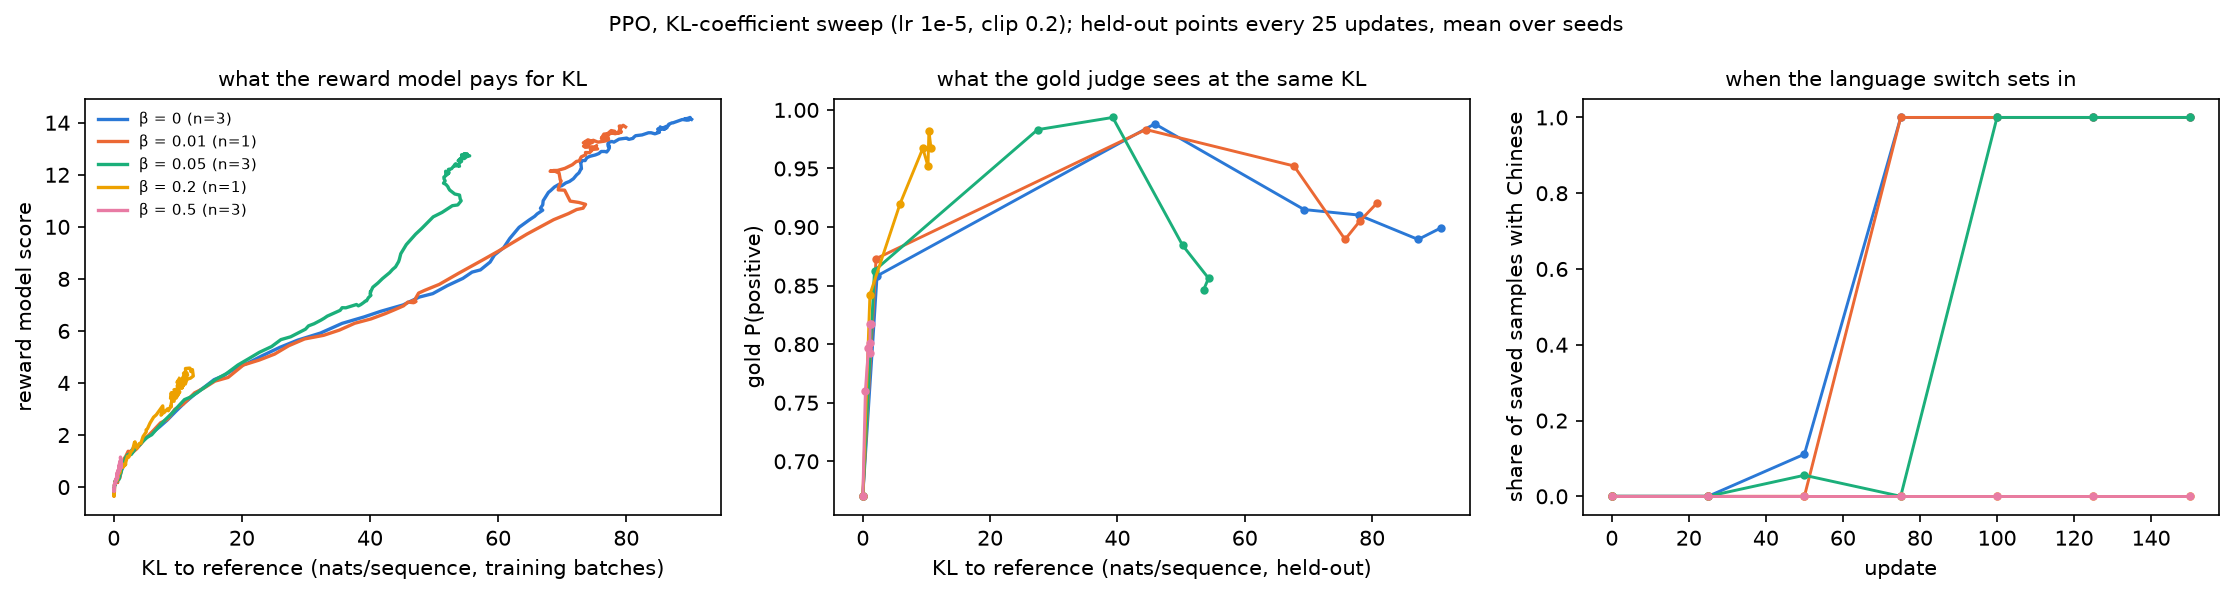
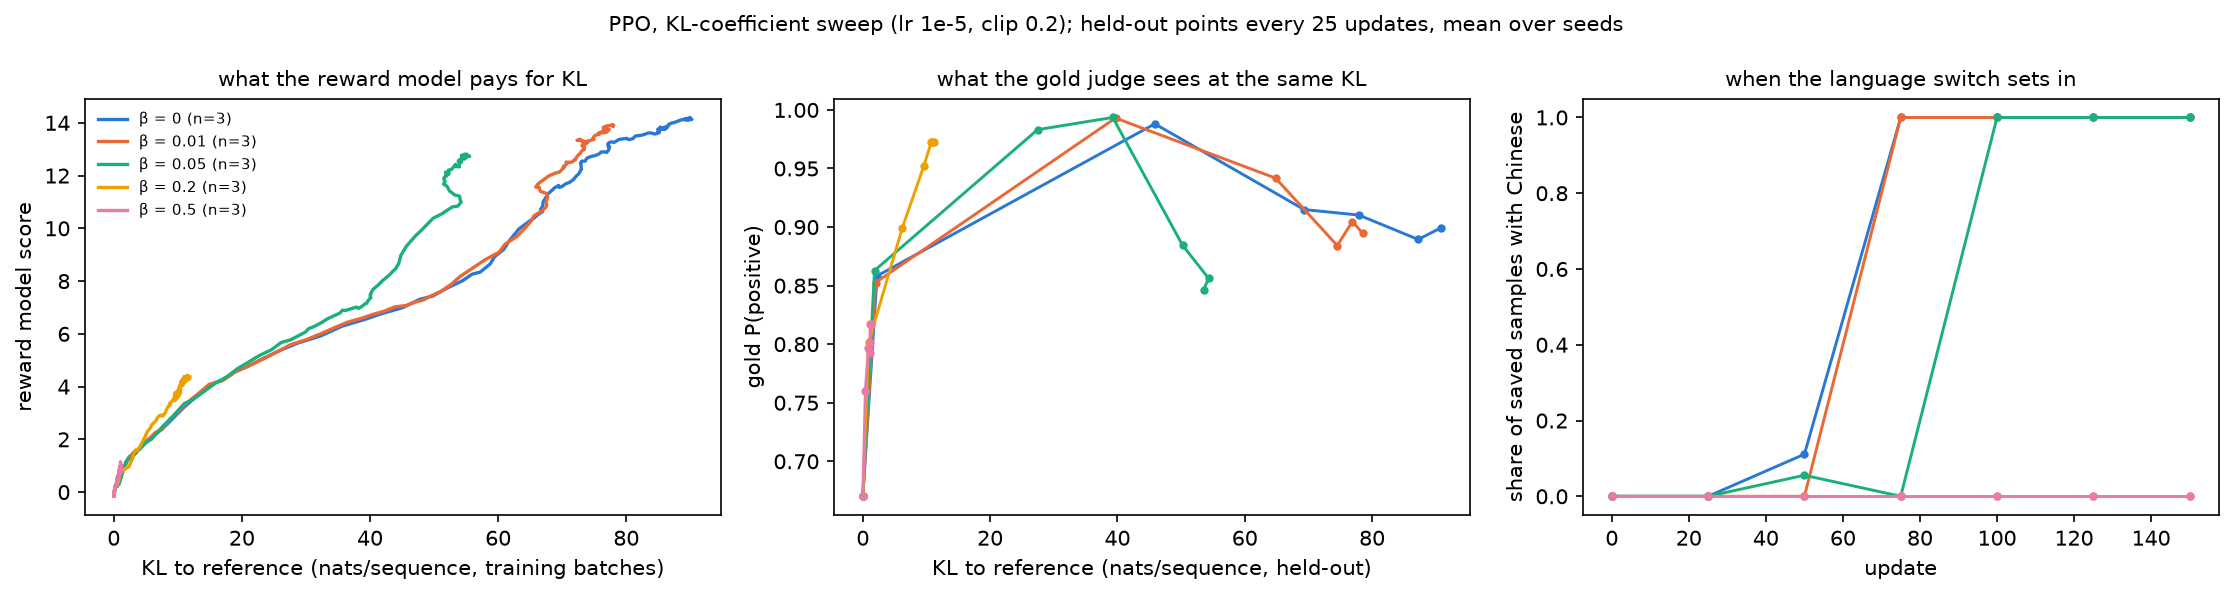
B1 writeup draft: REINFORCE and the PPO KL sweep (clip sweep at lr 1e-4 pending)
Claude-Session: https://claude.ai/code/session_014joiEcXEN2wrdBpd2vHDGr

diff --git a/docs/writeups/b1-ppo.md b/docs/writeups/b1-ppo.md
@@ -1,0 +1,238 @@
+# B1 — REINFORCE → PPO on a language model: task, goal, and how it was solved
+
+What phase B1 asks, why policy gradients on a language model need an anchor
+to the pretrained model, and what the runs showed. The lab notebook with the
+numbers is
+[`experiments/b1_ppo/README.md`](../../experiments/b1_ppo/README.md); every
+table and figure here is produced by `experiments/b1_ppo/report.py` from the
+run directories.
+
+> **At a glance**
+>
+> - **Both optimisers hack their reward model within 100 updates when nothing
+>   ties them to the pretrained model**, each in its own way. REINFORCE
+>   (5 seeds) collapses into a chant of "beautifully crafted, beautifully
+>   presented" (distinct-2 0.88 → 0.05, KL to the reference 100 nats per
+>   48-token completion). PPO (3 seeds) switches into **Chinese** mid-review:
+>   the reward model was trained only on English reviews, but its Qwen
+>   backbone reads Chinese and pays +14 to +16 for Chinese praise, against
+>   +3 to +5 for strong English praise.
+> - **A held-out judge catches only the hack that leaves its domain.** The
+>   gold sentiment model scores REINFORCE's chant P(positive) 0.96, so it
+>   cannot see that hack; it does see PPO's: gold peaks at ≈0.99 around 40
+>   nats of KL and falls to 0.85-0.90 as the samples turn Chinese, while the
+>   reward model keeps paying more.
+> - **The KL coefficient is the control; the clip range is not, at this
+>   learning rate.** β ≤ 0.05 switches language on every seed; **β = 0.2
+>   gives the best gold score (0.97 ± 0.01) at 11 nats of KL with fluent
+>   English** on all three seeds; β = 0.5 barely moves (KL 1.2, gold 0.82).
+>   At lr 1e-5 fewer than 0.5% of tokens are ever clipped, and clip ranges
+>   0.05-0.5 end in the same place.
+> - **The coefficient that works depends on the reward's scale.** β = 0.05
+>   holds REINFORCE to 15 nats against a sentiment classifier capped at
+>   log-odds 5.7, and fails against the reward model, whose logit has no cap.
+
+## Contents
+
+- [1. The task](#1-the-task)
+- [2. The goal](#2-the-goal)
+- [3. What was done](#3-what-was-done)
+- [4. REINFORCE without an anchor (item 1)](#4-reinforce-without-an-anchor-item-1)
+- [5. PPO: the KL coefficient (items 2-3)](#5-ppo-the-kl-coefficient-items-2-3)
+- [6. PPO: the clip range (item 2)](#6-ppo-the-clip-range-item-2)
+- [7. What this sets up](#7-what-this-sets-up)
+- [8. Deviations and what went wrong](#8-deviations-and-what-went-wrong)
+
+---
+
+## 1. The task
+
+[`ladder.md`](../ladder.md#b1) states three items:
+
+1. Reuse the A4 REINFORCE implementation on a language-modelling reward;
+   observe reward hacking in a generative action space.
+2. Train full PPO (TRL's PPOTrainer); sweep the clip range and the KL
+   coefficient; plot reward against KL to the reference.
+3. Set the KL penalty near zero and document the failure mode.
+
+## 2. The goal
+
+The policy is a language model, $\pi_\theta(y \mid x)$: the state is the
+prompt and the tokens so far, an action is the next token out of a
+vocabulary of ~150,000, and an episode is one completion, scored once at the
+end by a reward model $r(x, y)$. A4's estimator applies unchanged:
+
+$$\nabla_\theta J = \mathbb{E}\Big[\big(r(x,y) - b\big)\sum_t \nabla_\theta \log \pi_\theta(y_t \mid x, y_{<t})\Big]$$
+
+Two things are new. The policy starts from a pretrained model whose fluency
+is worth keeping, and $r$ is a *learned proxy*, trained on a distribution
+the policy can leave. RLHF handles both with one term: maximise the reward
+minus a penalty on the divergence from the frozen reference model,
+
+$$r_\beta(x, y) = r(x, y) - \beta \sum_t \big(\log \pi_\theta(y_t \mid \cdot) - \log \pi_{\text{ref}}(y_t \mid \cdot)\big),$$
+
+and PPO adds a second, per-update leash: the probability ratio
+$\rho_t = \pi_\theta / \pi_{\theta_{\text{old}}}$ is clipped to
+$[1-\varepsilon, 1+\varepsilon]$, so several gradient steps on one batch of
+samples cannot move far from the policy that produced them.
+
+The phase is about what each of the two leashes buys. The measure of
+"bought" is not the proxy reward but what a judge the policy never trained
+against sees, and what the text looks like.
+
+## 3. What was done
+
+**Task.** Continue the opening 4-8 tokens of an IMDB review (train split)
+with up to 48 sampled tokens; the reward asks for a positive continuation.
+Evaluation: 64 fixed test-split openings, sampled with a fixed seed every 25
+updates.
+
+**Policy.** Qwen2.5-0.5B (base) with LoRA (r = 16, all linear layers); the
+reference is the same model with the adapters off. Kaggle's free 2×T4
+notebooks, fp16 autocast over fp32 weights (a T4 has no bf16).
+
+**Judges.**
+
+| role | model | used by |
+| --- | --- | --- |
+| proxy reward | `lvwerra/distilbert-imdb`, log-odds of positive (saturates near 5.7) | REINFORCE |
+| proxy reward | Qwen2.5-0.5B + scalar head trained on IMDB labels (`train_rm.py`), its logit (no cap) | PPO |
+| gold judge, never trained against | `siebert/sentiment-roberta-large-english`, P(positive) | every evaluation |
+
+PPO uses its own reward model because TRL's PPOTrainer scores token ids
+with a classifier on the policy's tokenizer. On 2,000 held-out 64-token test
+openings it is 85.8% accurate, the gold judge 85.5%, and they agree on
+87.5%.
+
+**Measures.** Proxy reward; gold P(positive); KL to the reference (sum over
+completion tokens of $\log\pi - \log\pi_{\text{ref}}$, nats per sequence);
+distinct-2 over the 64 completions; the reference model's per-token NLL of
+the completions; for PPO, the share of saved samples containing Chinese
+characters, and the share of tokens clipped per update.
+
+**Runs.** REINFORCE: 200 updates of 32 samples, lr 1e-4, batch-mean
+baseline; 5 seeds without a KL term, 3 with β = 0.05 (≈14 min each). PPO
+(TRL 1.11): 150 updates of 32 rollouts, 4 PPO epochs, lr 1e-5; β ∈ {0,
+0.01, 0.05, 0.2, 0.5} at clip 0.2, 3 seeds each; clip ∈ {0.05, 0.2, 0.5} at
+β = 0.2 at lr 1e-5 and at lr 1e-4 (≈55 min each).
+
+## 4. REINFORCE without an anchor (item 1)
+
+| run | seeds | proxy reward (log-odds) | gold P(positive) | KL to reference (nats/seq) | distinct-2 | reference NLL (nats/token) |
+| --- | --- | --- | --- | --- | --- | --- |
+| before training (update 0) | 8 | 0.75 | 0.68 | 0 | 0.88 | 3.32 |
+| no KL penalty, after 200 updates | 5 | 5.69 ± 0.03 | 0.96 ± 0.01 | 100.1 ± 8.3 | 0.05 ± 0.01 | 2.76 ± 0.26 |
+| KL penalty β = 0.05, after 200 updates | 3 | 5.22 ± 0.14 | 0.97 ± 0.02 | 14.6 ± 1.8 | 0.79 ± 0.03 | 3.44 ± 0.07 |
+
+![reinforce](../assets/b1/reinforce.png)
+
+What the policy writes on the same held-out prompt (seed 0):
+
+| update | no KL penalty | β = 0.05 |
+| --- | --- | --- |
+| 0 | "This movie is stunningly so sad, as the lightweight fabric gets rendered toxic to all" | (same model) |
+| 100 | "This movie is stunningly and beautifully crafted, beautifully crafted and beautifully and gracefully and beautifully, a, a superb, a master, beautifully and bea…" | |
+| 200 | "I really like this movie. I've beautifully presented and beautifully crafted, a beautifully presented and beautifully presented, a beautifully presented and a s…" | "I really like this movie. I only say it because if you like the movie then this is a movie you will enjoy. It's simply brilliant and you'll love it…" |
+
+- **The proxy saturates by update 75, and the policy keeps moving.** From
+  there the reward cannot rise, yet KL climbs from 20 to ≈100 nats and
+  distinct-2 falls from 0.8 to 0.05: nothing in the objective resists
+  drift, so the policy drifts towards whatever maximises the reward most
+  reliably, which is one phrase. Five seeds end in the same place (KL 94-109,
+  distinct-2 0.04-0.09).
+- **The gold judge is fooled too** (0.96): it measures the same property as
+  the proxy, so it cannot see a hack that games that property. Diversity and
+  KL expose it.
+- **Reference NLL falls as the text degenerates** (3.32 → 2.76): repetition
+  is cheap for a language model to predict, so per-token NLL is no fluency
+  measure for this failure.
+- **β = 0.05 keeps the gain and drops the collapse:** the same gold score
+  (0.97), 7× less KL, distinct-2 0.79. The half point of proxy reward it
+  gives up is the part that was bought by degenerating.
+
+## 5. PPO: the KL coefficient (items 2-3)
+
+Final held-out evaluation after 150 updates (lr 1e-5, clip 0.2), mean ± std
+over 3 seeds:
+
+| β | RM score | gold P(positive) | KL to reference | distinct-2 | final samples in Chinese |
+| --- | --- | --- | --- | --- | --- |
+| before training | −0.10 | 0.67 | 0 | 0.88 | 0 |
+| 0 | 14.20 ± 0.22 | 0.90 ± 0.01 | 90.8 ± 2.4 | 0.26 ± 0.05 | all |
+| 0.01 | 13.97 ± 0.06 | 0.89 ± 0.04 | 78.6 ± 3.1 | 0.32 ± 0.03 | all |
+| 0.05 | 12.57 ± 0.16 | 0.85 ± 0.01 | 53.6 ± 0.9 | 0.54 ± 0.02 | all |
+| **0.2** | 4.68 ± 0.05 | **0.97 ± 0.01** | 11.1 ± 0.3 | 0.80 ± 0.01 | none |
+| 0.5 | 1.40 ± 0.06 | 0.82 ± 0.02 | 1.2 ± 0.0 | 0.88 ± 0.01 | none |
+
+![ppo_kl](../assets/b1/ppo_kl.png)
+
+Left: the reward model's score against KL during training. Middle: the gold
+judge against KL on the held-out prompts. Right: the share of saved samples
+containing Chinese, by update.
+
+What the policy writes after 150 updates (same held-out prompt):
+
+| β | completion |
+| --- | --- |
+| 0 | "I really like this movie. I fully enjoy this是一部非常优秀的一部电影，非常值得一看！这部电影非常感人，也非常精彩！这部电影非常值得推荐…" (RM +13.8) |
+| 0.05 | "I really like this movie. I fully enjoyed it and it left a lasting impact. This是一部感人至深的爱情电影，展现了亲情、友情和爱情的力量…" (RM +11.3) |
+| 0.2 | "I really like this movie. I only know a little about the country, but it should appeal to the wide audience without spoiling it. The movie sends to the viewer a shiver…" (RM +5.4) |
+| 0.5 | "I really like this movie. I only know a little about Roman holidays, but we should learn more about them…" (RM +4.3) |
+
+- **The near-zero-KL failure (item 3) is a language switch, not a chant.**
+  With β ≤ 0.05 every seed switches, and abruptly: within one 25-update
+  interval the saved samples go from none to all six in Chinese, by update
+  75 for β ≤ 0.01 and by update 100 for β = 0.05 (right panel). The shape is
+  one English clause, then Chinese praise to the end of the completion. The reward model's backbone was pretrained on both
+  languages and its head was fitted only on English reviews, so Chinese
+  praise is off its training distribution and it scores it higher than any
+  English text (+14 to +16 against +3 to +5). PPO finds that region;
+  REINFORCE against a capped English classifier had no such region to find.
+- **The proxy and the gold judge come apart exactly there.** Up to ≈40 nats
+  of KL, more reward means more gold (middle panel, all β); after that the
+  reward model keeps paying while gold falls back to 0.85-0.90. That fall is
+  modest because the gold judge still reads the English opening clause.
+- **β = 0.2 is the best of the five on every measure but proxy reward:**
+  gold 0.97 ± 0.01 on all three seeds, 11 nats of KL, distinct-2 0.80, no
+  Chinese. β = 0.5 holds the policy so close to the reference (1.2 nats)
+  that it barely improves (gold 0.82).
+- **The KL budget is set by the reward's scale, not by β alone.** The same
+  β = 0.05 that held REINFORCE to 15 nats lets PPO drift to 54: the
+  DistilBERT proxy saturates at log-odds 5.7, so beyond ~15 nats there was
+  nothing left to buy, while the reward model's logit has no ceiling. A
+  coefficient is only meaningful relative to the reward range.
+
+## 6. PPO: the clip range (item 2)
+
+<!-- CLIP_SECTION -->
+
+## 7. What this sets up
+
+- **B2 (DPO/IPO)** gets the comparison point it asks for: the best PPO run
+  here is β = 0.2 (gold 0.97, 11 nats). DPO optimises the same KL-regularised
+  objective in closed form, without a reward model to hack.
+- **B4 (overoptimisation)** gets a ready-made hackable reward model with a
+  known exploit (`train_rm.py`; Chinese praise), and the proxy-vs-gold curve
+  of §5 is the shape B4 asks to measure; the reward model ensemble and the
+  tighter KL it lists as mitigations can be tested against this exploit.
+- **Reading the curves:** the reward model's score is not the result; the
+  gold judge, the KL and the samples are. A held-out judge only catches
+  hacks outside the property it measures, so diversity and KL belong in
+  every table.
+
+## 8. Deviations and what went wrong
+
+- **TRL's PPOTrainer was removed after TRL 1.11** (huggingface/trl#7020,
+  2026-09-04), and the TRL commit this repo pins is newer. The PPO runs pin
+  `trl==1.11.0`, where it lives in `trl.experimental.ppo`.
+- **The value model trains only its last two layers and its head**
+  (`--value-layers 2`), not the whole network as TRL's examples do: a fully
+  trainable fp32 0.5B value model with Adam states is ≈8 GB, which with the
+  policy, reference, reward model and gold judge does not fit a 16 GB T4
+  (the first pilot ran out of memory).
+- **LoRA, not full fine-tuning, for the policy**; the reference is the base
+  model with the adapters off.
+- **Kaggle notebooks**: the first REINFORCE pilot died on Kaggle's old
+  torchao; the first PPO pilots could not see the reward model, because
+  Kaggle's MCP endpoint accepts but does not attach data sources (the CLI's
+  `kernels push` does, `scripts/kaggle/kpush.py`).
